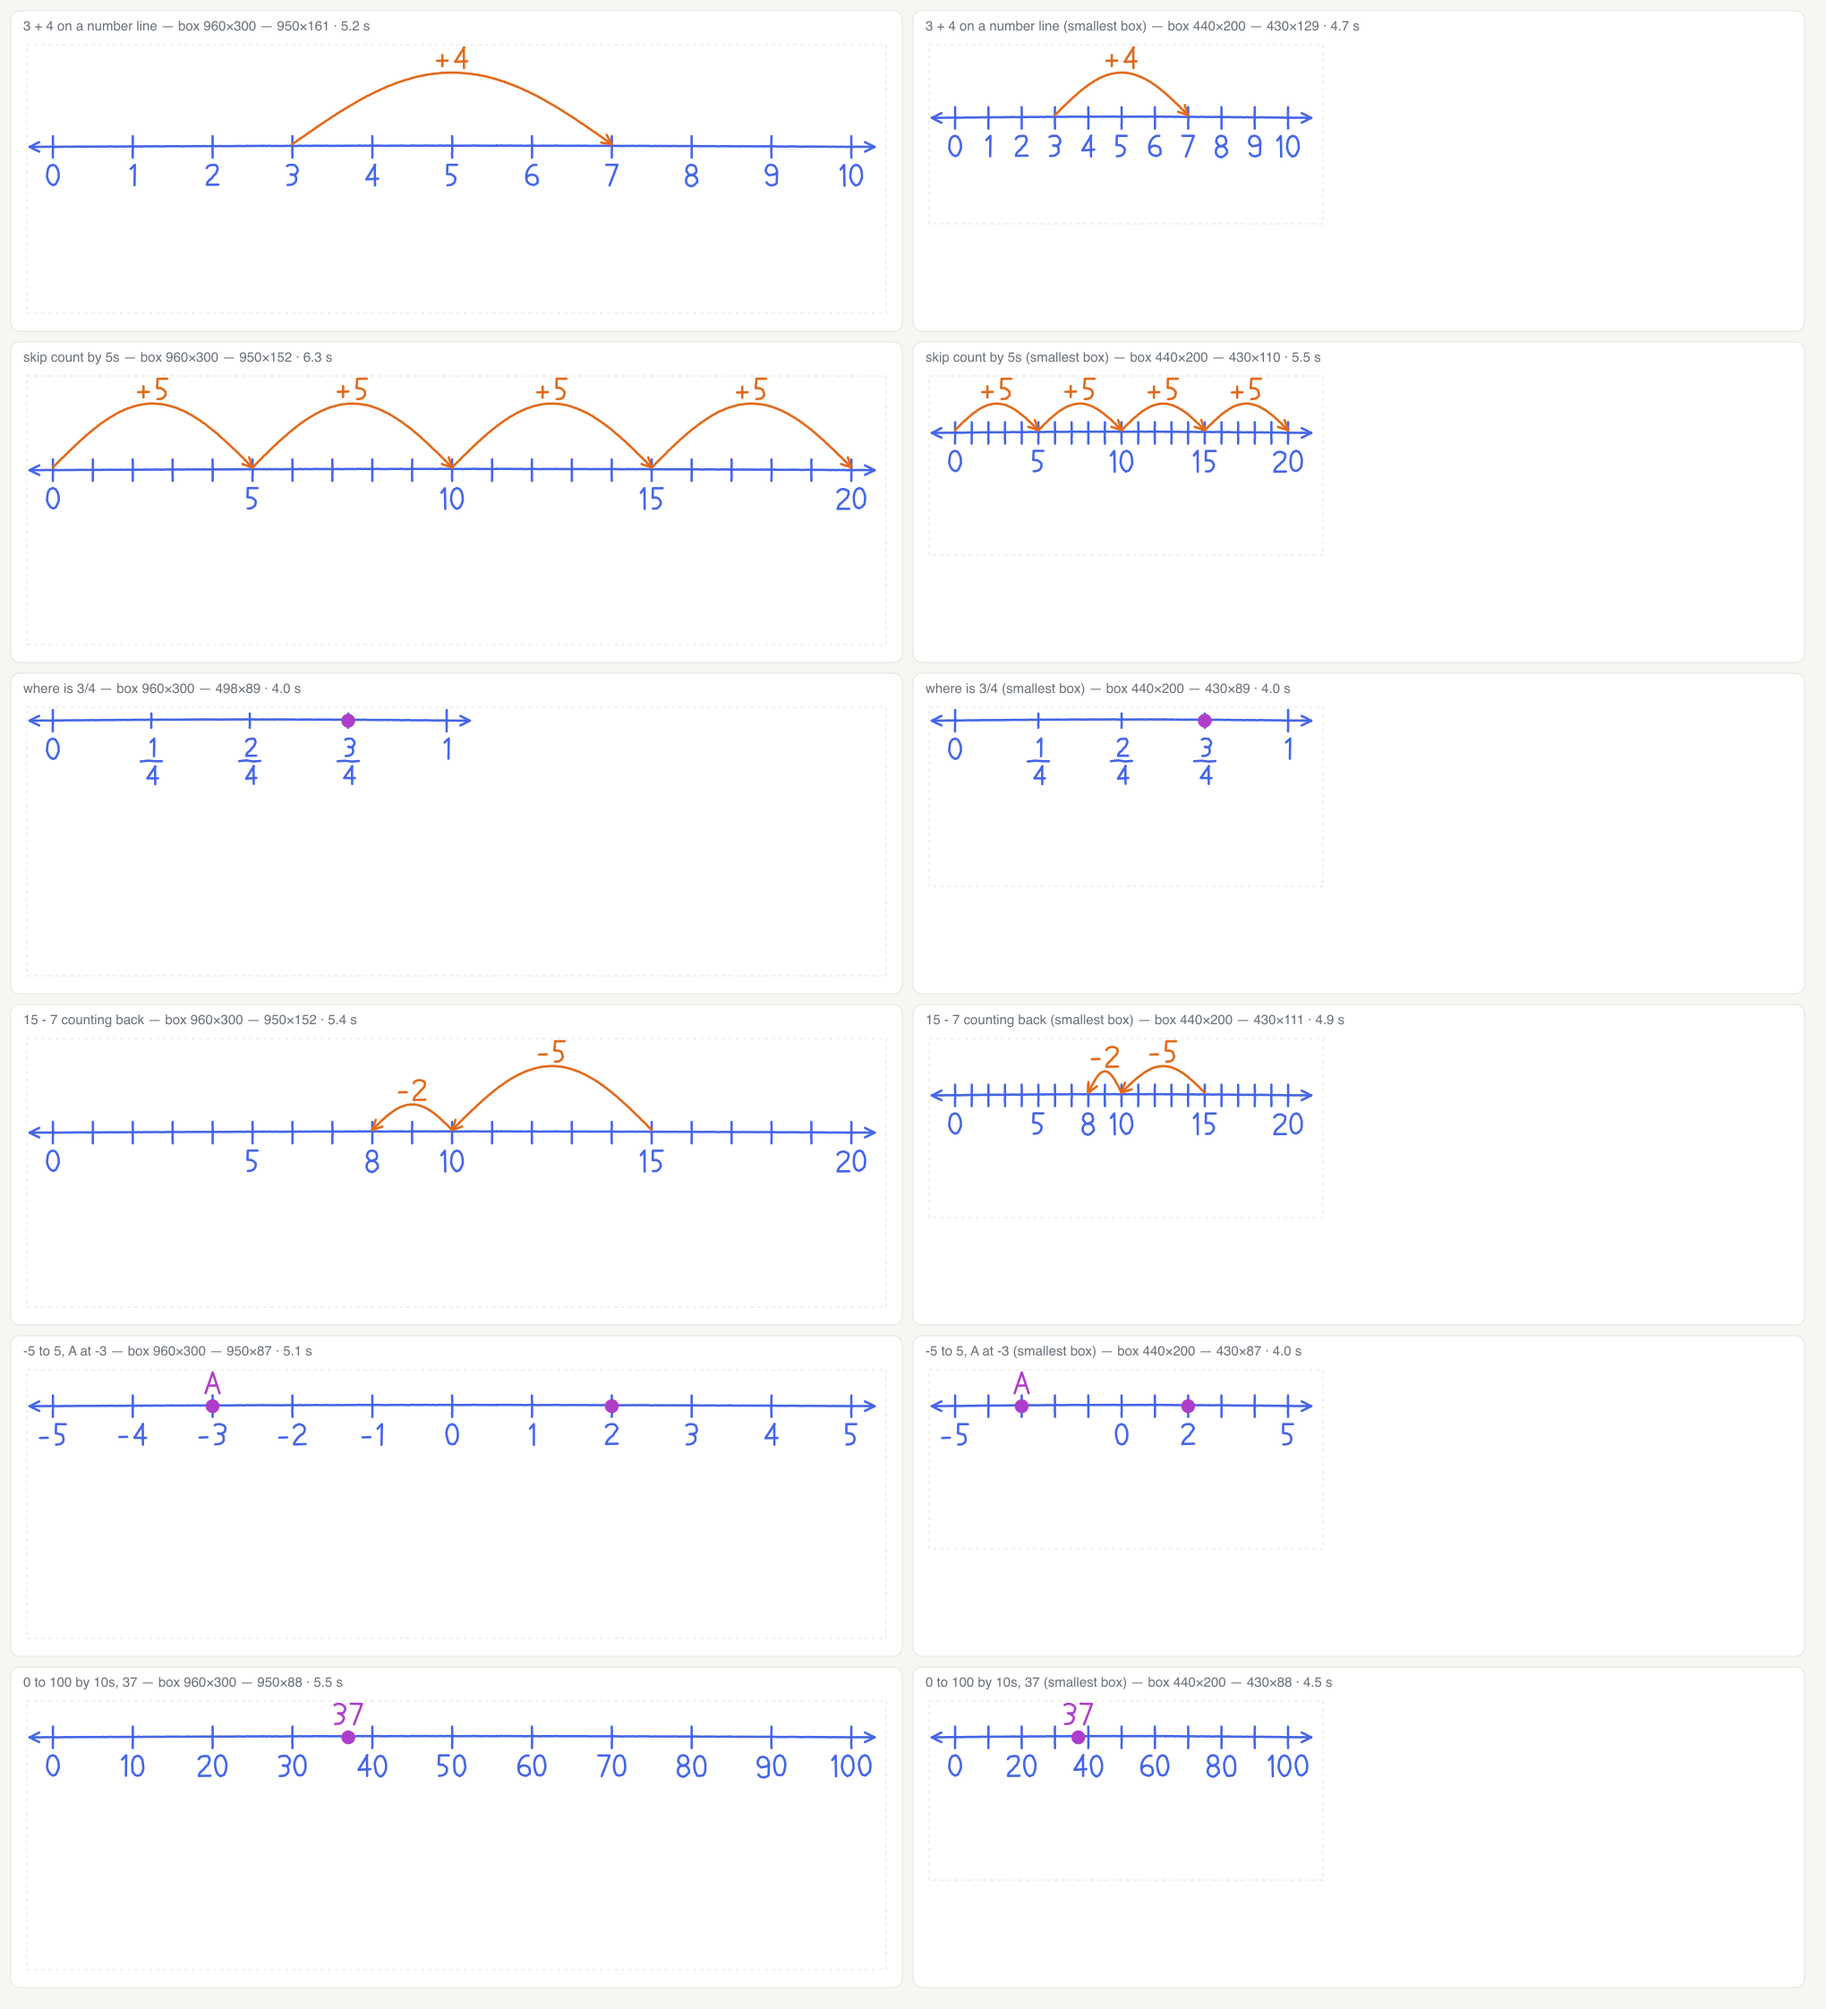
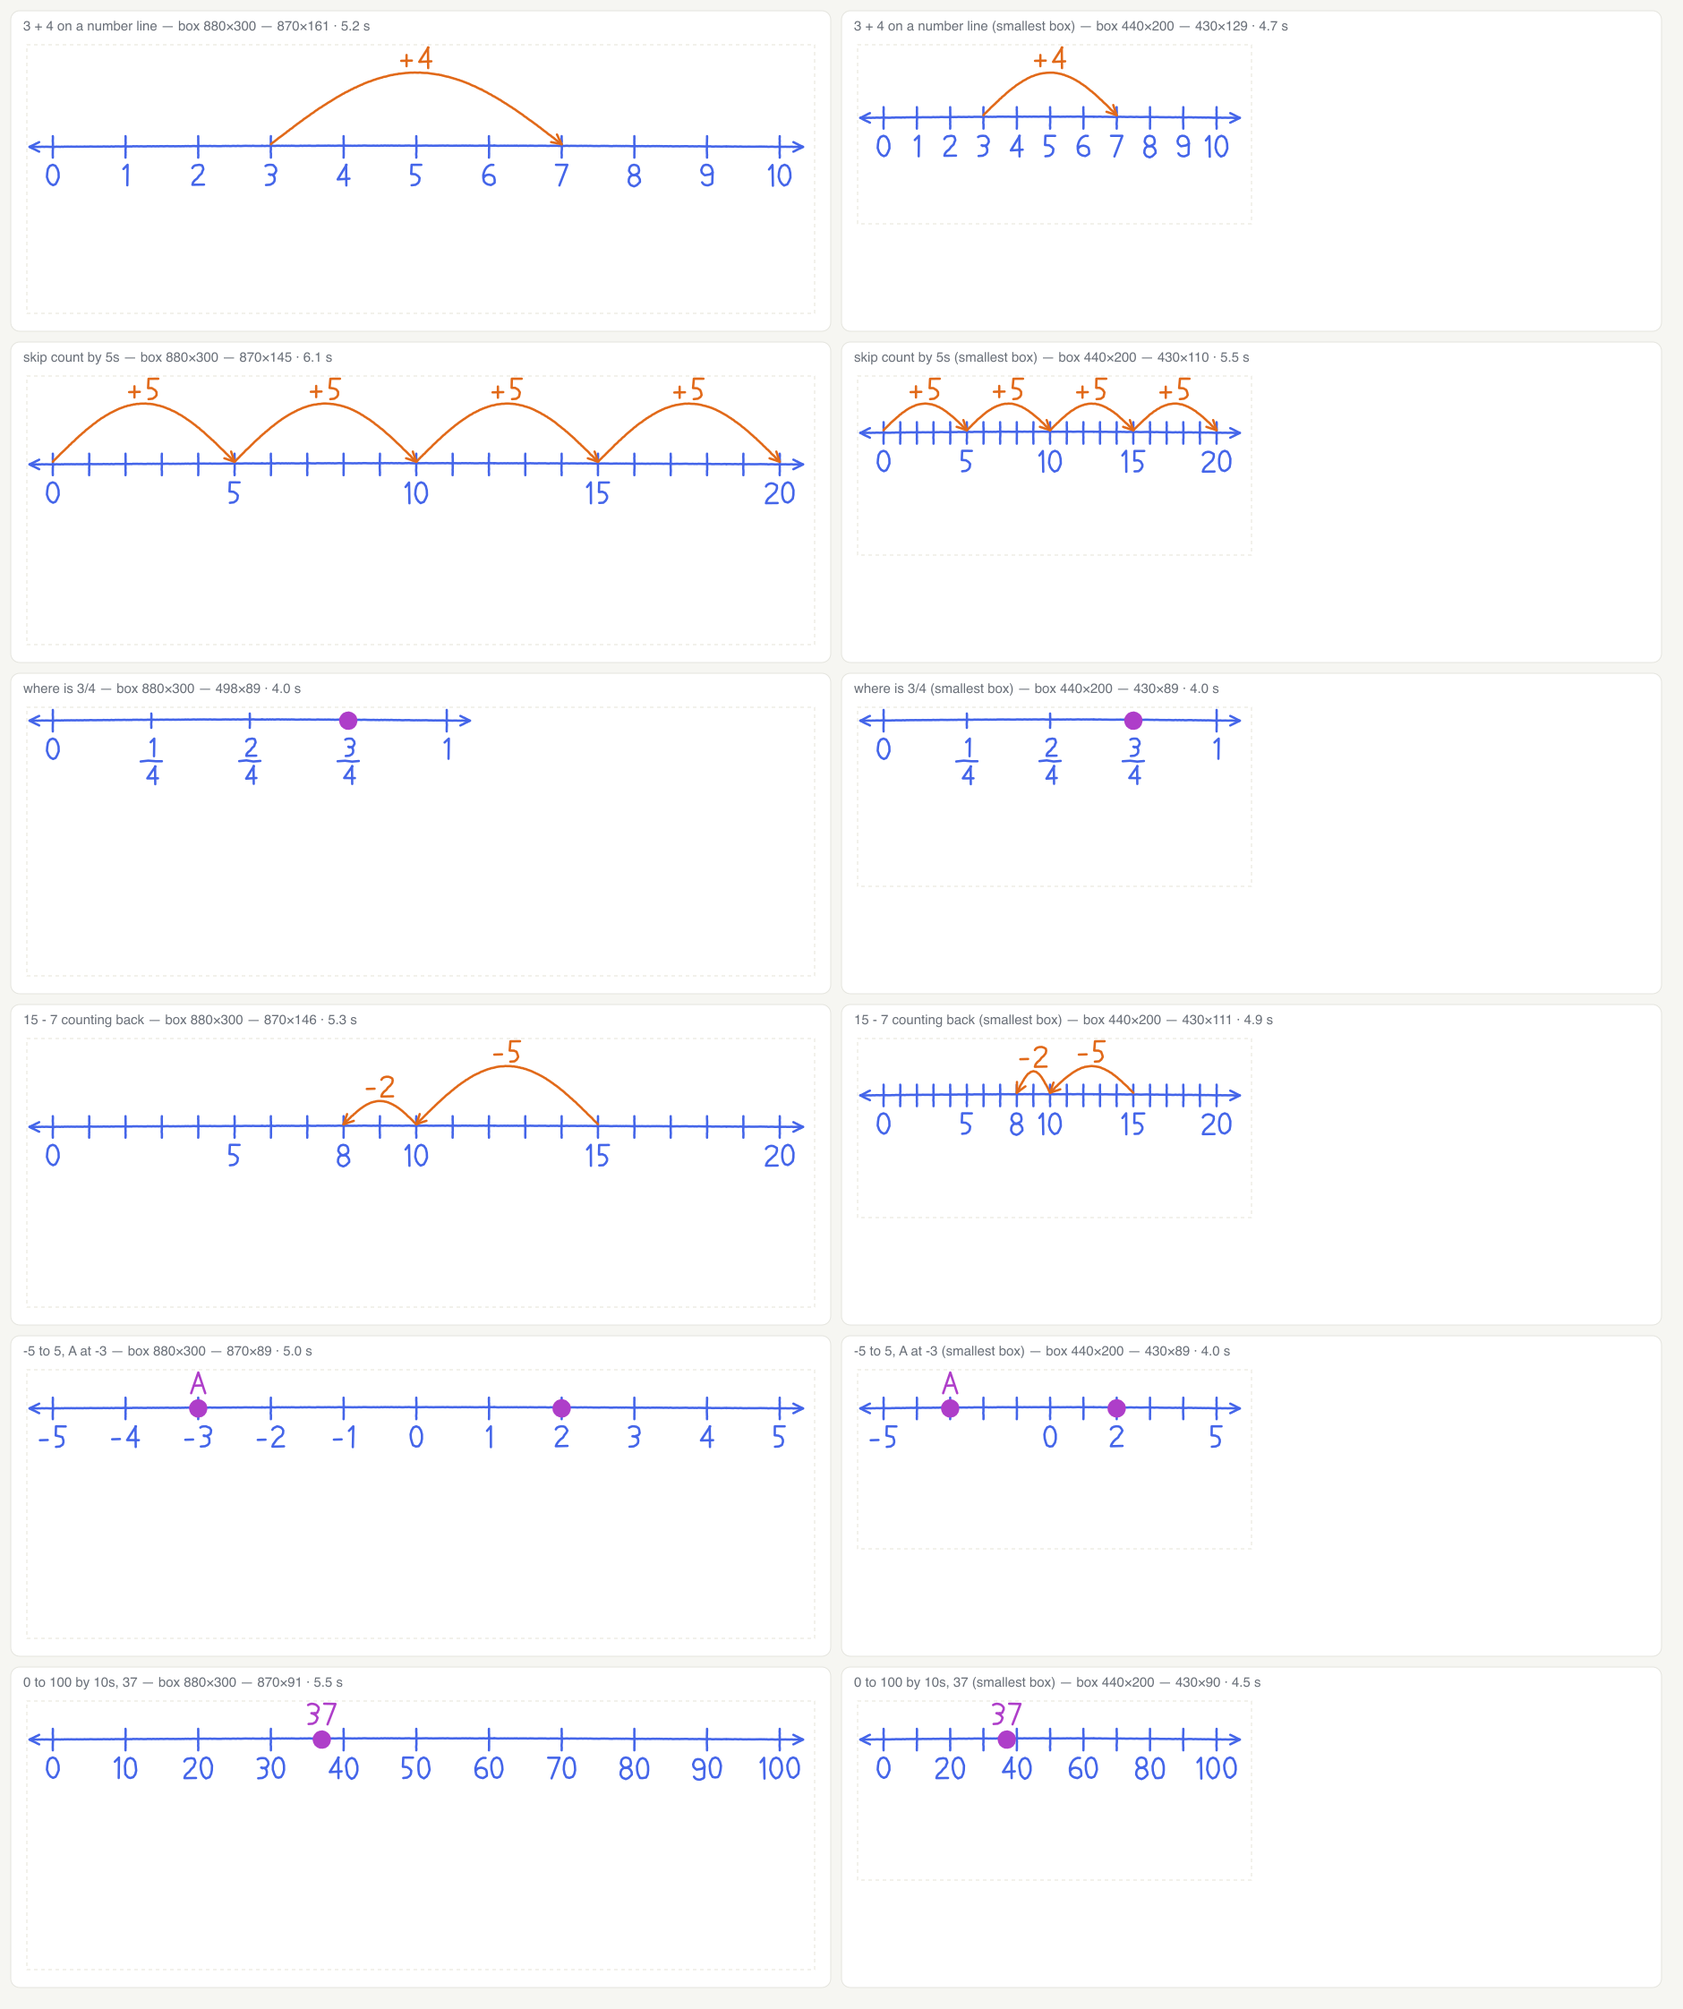
docs(ask): the models on a real board — every kind, beside its problem on an iPad, four of six problems, a phone, mid-draw
Drawn through window.__agathonChat on next dev (Playwright): number lines, fraction bars and
circles, area model, array, groups, blocks, place value, ten frames, tapes, clocks; two problems
with a picture right of each (iPad landscape), six problems with four pictures each in its cell's
work room (no new screen), a phone, and an area model mid-draw (outline, cuts, numbers, then each
cell coloured in). Bigger solid dots (a number line's mark, a clock's centre): tldraw smoothed the
small ones into diamonds. Contact sheets regenerated.

diff --git a/src/lib/live/chat/models/clock.ts b/src/lib/live/chat/models/clock.ts
@@ -62,6 +62,6 @@ export function planClock(spec: Clock, box: { w: number; h: number }, seed: numb
   const minuteLen = ring - size * 0.5;
   ink.draw("hand:hour", (pen) => [...pen.line(c, at(hour, hourLen)), ...pen.arrowhead(at(hour, hourLen), Math.sin(hour), -Math.cos(hour), 15)], { color: HOUR_INK }, K.weight.hour);
   ink.draw("hand:minute", (pen) => [...pen.line(c, at(minute, minuteLen)), ...pen.arrowhead(at(minute, minuteLen), Math.sin(minute), -Math.cos(minute), 13)], { color: MINUTE_INK }, K.weight.minute);
-  ink.draw("centre", (pen) => counter(pen, c, 6), solid(MODEL_INK));
+  ink.draw("centre", (pen) => counter(pen, c, 7.5), solid(MODEL_INK));
   return ink.finish(box);
 }

diff --git a/src/lib/live/chat/models/numberLine.ts b/src/lib/live/chat/models/numberLine.ts
@@ -37,7 +37,7 @@ export const NUMBER_LINE = {
   arcFoot: 3,
   /** px from an arc's top to its label */
   arcLabelGap: 5,
-  markR: 6.5,
+  markR: 9,
 } as const;
 
 const JUMP_INK = "orange" as const;
